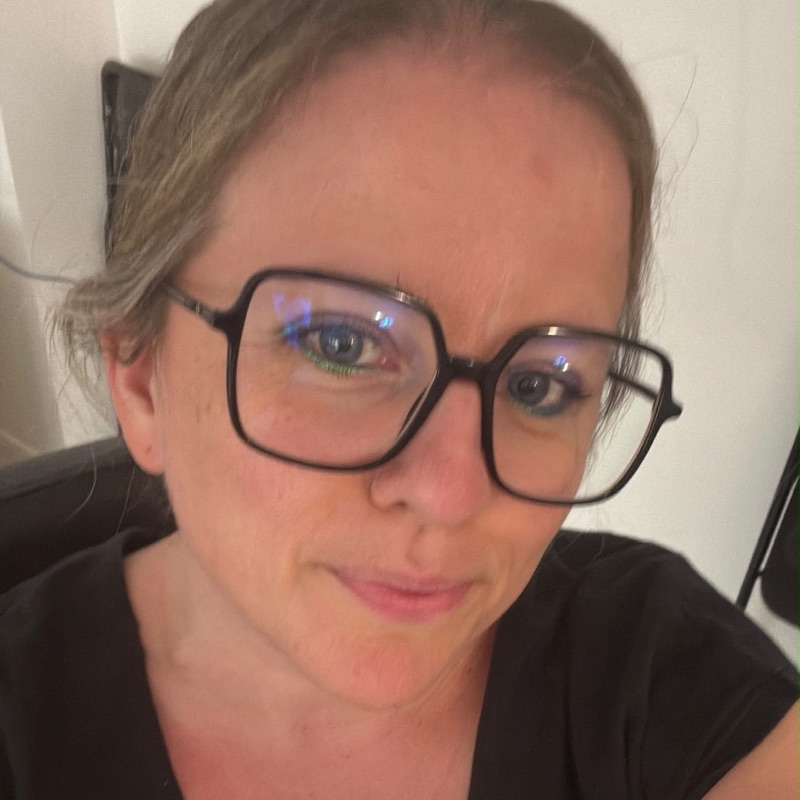
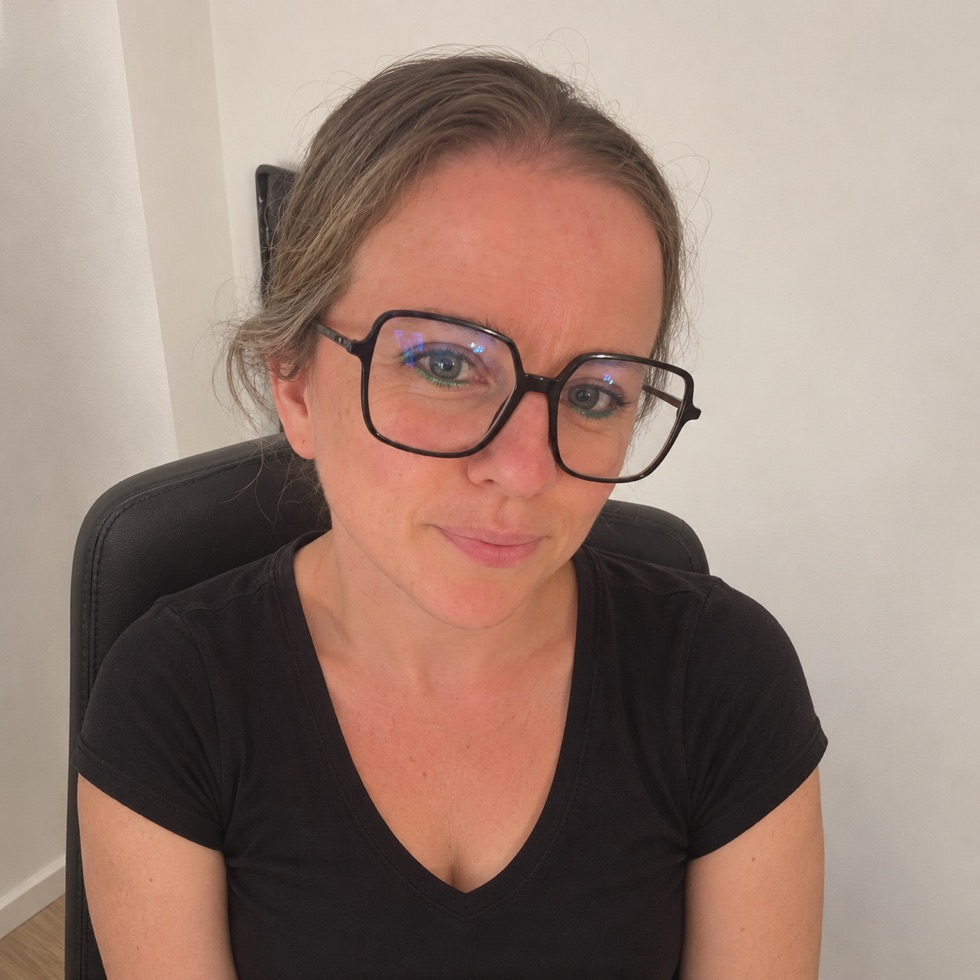
Remplace les portraits de la direction (Illouz, Teboul, Leycure, Krumhorn)
Nouvelles photos fournies, recadrées au carré en 980 × 980 (JPEG).

diff --git a/src/app/(site)/teledok/page.tsx b/src/app/(site)/teledok/page.tsx
@@ -60,7 +60,7 @@ const DIRECTION: { nom: string; de: string; role: string; detail: ReactNode; pho
     de: 'du Dr Stéphane Illouz',
     role: 'Cofondateur – Directeur médical',
     detail: 'Urgentiste, médecin généraliste. Coordinateur MSP.',
-    photo: '/photos/illouz.webp',
+    photo: '/photos/illouz.jpg',
     linkedin: 'https://www.linkedin.com/in/stephane-illouz-0b3413270/',
   },
   {
@@ -69,7 +69,7 @@ const DIRECTION: { nom: string; de: string; role: string; detail: ReactNode; pho
     role: 'Cofondateur – Directeur Stratégie et Technologie',
     detail:
       'Urgentiste, médecin généraliste. Coordinateur MSP et bureau CPTS, président du groupe Téléconsultation de l’Académie francophone de télémédecine.',
-    photo: '/photos/teboul.webp',
+    photo: '/photos/teboul.jpg',
     linkedin: 'https://www.linkedin.com/in/francois-teboul-b03a9599/',
   },
   {
@@ -77,7 +77,7 @@ const DIRECTION: { nom: string; de: string; role: string; detail: ReactNode; pho
     de: 'de Zoé Leycure',
     role: 'Directrice financière',
     detail: <>Directrice Finance &amp; Stratégie de {CAPITELLO}.</>,
-    photo: '/photos/leycure.webp',
+    photo: '/photos/leycure.jpg',
     linkedin: 'https://www.linkedin.com/in/zo%C3%A9-leycure-725056151/',
   },
   {
